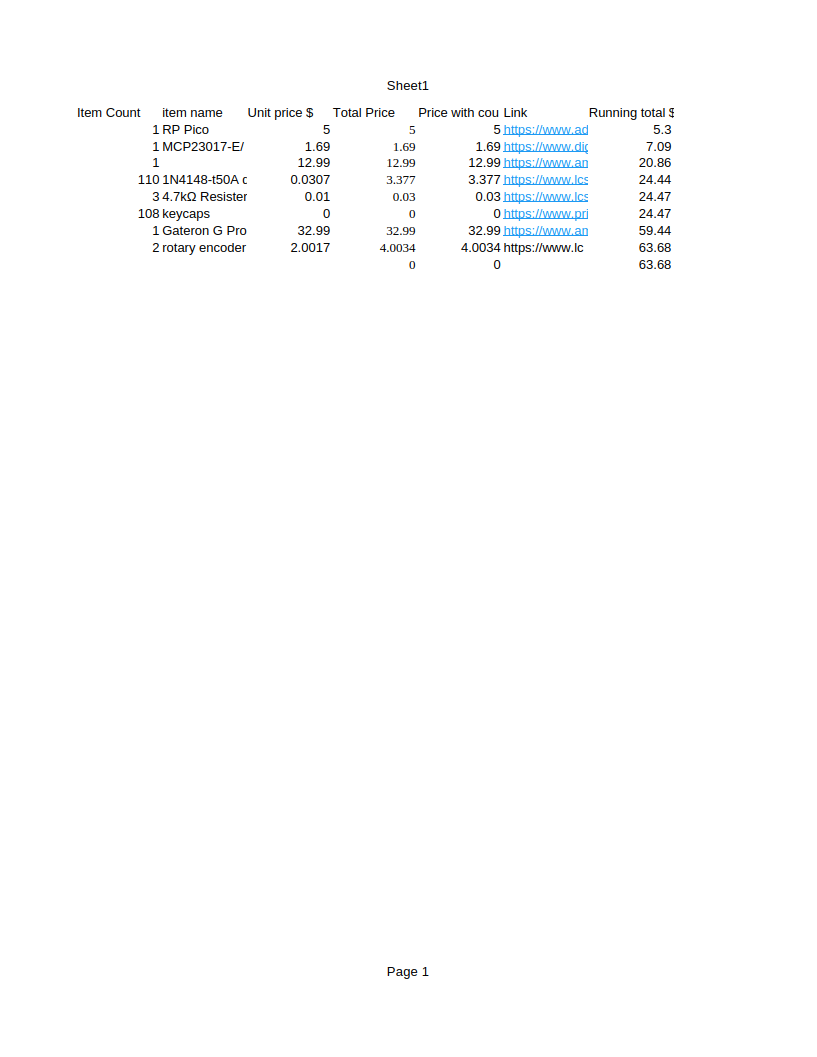
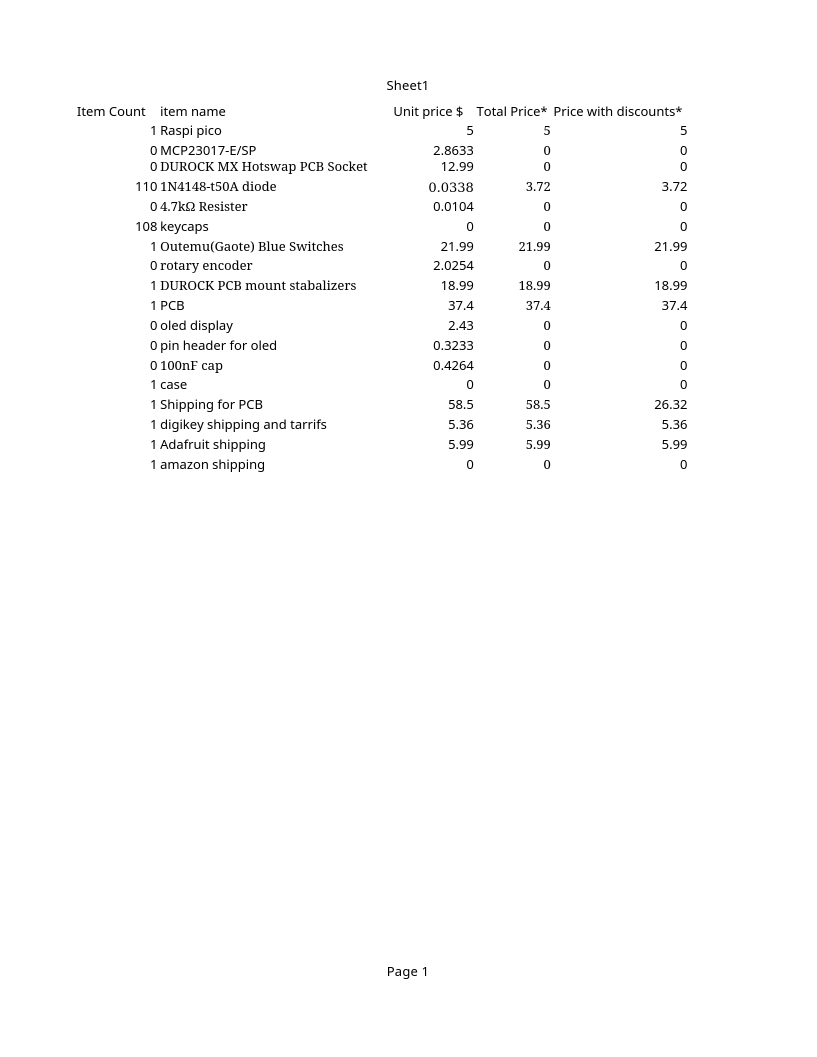
added correct JOURNAL

diff --git a/JOURNAL.md b/JOURNAL.md
@@ -2,278 +2,80 @@
   This journal is auto generated by Hack Club Blueprint.
 -->
 
-## 10/14/2025 10 AM - Set up the clock module  
-
-_Time spent: 1.0h_  
-
-Made the clock module schematic following the schematic that Ben Eater made. It took me a little bit for me to figure out what RV1 was turns out it was a Potentiometer. I have also stared work on the a-register. I still need to figure out how to make it different from the one Ben Eater made so I'm not just copying his schematic and calling it my own. ![Screenshot_20251014_104442.png](https://blueprint.hackclub.com/user-attachments/blobs/proxy/eyJfcmFpbHMiOnsiZGF0YSI6MjIwMywicHVyIjoiYmxvYl9pZCJ9fQ==--0414950fb8ee1dacb4ae17ba9ccf1d42f8d0abc1/Screenshot_20251014_104442.png)  
-
-## 10/14/2025 11 AM - layed out the schematic for the a-register and b-register  
-
-_Time spent: 0.5h_  
-
-I got the a-register schematic layed out and all the connections set up. sense i just needed to grab the components and nothing was really hard to find it didn't take to hard to make. sense the b register is basically the same (the only difference is the output names) I just copied the existing schematic file and hierarchical sheet and edited it to make it work.
-![Screenshot_20251014_111732.png](https://blueprint.hackclub.com/user-attachments/blobs/proxy/eyJfcmFpbHMiOnsiZGF0YSI6MjIxMywicHVyIjoiYmxvYl9pZCJ9fQ==--503a58eb351ad3e66d941f6c948d3f7b6ec3daad/Screenshot_20251014_111732.png)  
-
-## 10/19/2025 - Made the scematic for the ALU and flags register  
-
-_Time spent: 0.5h_  
-
-set up the flags register and the ALU schematic. it wasn't to hard to do but i did figure out how to make the schematic look better so it probably looks better then my previous schematics. I also figured out that there is a version control function built into KiCad though i may stick to the command line for the future.
-
-![image.png](https://blueprint.hackclub.com/user-attachments/blobs/proxy/eyJfcmFpbHMiOnsiZGF0YSI6MzU0MCwicHVyIjoiYmxvYl9pZCJ9fQ==--edb4d5dab8a4c14b641bf7c07b2b16b2de5177f0/image.png)
-  
-
-## 10/21/2025 - Made the MAR module  
-
-_Time spent: 0.5h_  
-
-I made the schematic for the MAR module witch was pretty easy as non of the parts needed swapped out. I didn't really learn any thing new in the process other then if you hold control you can move things off the grid.
-![image.png](https://blueprint.hackclub.com/user-attachments/blobs/proxy/eyJfcmFpbHMiOnsiZGF0YSI6NDI2MiwicHVyIjoiYmxvYl9pZCJ9fQ==--aeb01d592da6778ed581c8fa601a26a26e73ff8c/image.png)
-  
-
-## 10/22/2025 - Make a symbol for the 74189 ram chip  
-
-_Time spent: 1.0h_  
-
-Sense i couldn't find a symbol or a alternative that works with out extensive upgrades to the rest of the computer i decided to make a symbol biased on data sheet linked to by Ben Eater.
-I managed it by essentially copying the connection diagram from the data sheet and turning it into a symbol then using the block diagram to figure out the what pins where outputs.
-I figgured out how to use the symbol editor and how to tell what pins are inputs and what pins are outputs.
-![74F189SJ.png](https://blueprint.hackclub.com/user-attachments/blobs/proxy/eyJfcmFpbHMiOnsiZGF0YSI6NDUwNCwicHVyIjoiYmxvYl9pZCJ9fQ==--89dc7ce9dd2e05fb48278ff53f9645d6629169de/74F189SJ.png)
-  
-
-## 10/25/2025 6 PM - Made the RAM module  
-
-_Time spent: 0.7h_  
-
-I made the ram module for the PC. but sense i used a custom symbol for one of the chips i need it isn't as clean as i would have hoped but it works.
-It was a little harder then the other modules because the custom symbols didn't match the pin names of the symbols on the reference schematic so i needed to make sure that i was matching the pin names and not the pin numbers.
-![image](https://blueprint.hackclub.com/user-attachments/blobs/proxy/eyJfcmFpbHMiOnsiZGF0YSI6NTU3OCwicHVyIjoiYmxvYl9pZCJ9fQ==--4c8a7bb9ea4240db2bd383e1365923daa1d4a5b4/image.png)
-  
-
-## 10/25/2025 7 PM - Made the program counter  
-
-_Time spent: 0.3h_  
-
-I made the program counter witch is the easiest part of the entire project.
-For this one the hardest part was just making it look nice witch didn't take to long and wasn't to hard.
-![image](https://blueprint.hackclub.com/user-attachments/blobs/proxy/eyJfcmFpbHMiOnsiZGF0YSI6NTU5MCwicHVyIjoiYmxvYl9pZCJ9fQ==--e1c7f8e157e568a6c55bc22d35b344b7e8bc2961/image.png)
-  
-
-## 10/26/2025 9 AM - Set up the output module  
+## 11/9/2025 - Setup the basics for the keyboard schematic  
 
 _Time spent: 1.5h_  
 
-I got the sheet for the output module set up witch besides needing to find a replacement for the 28c16 EEPROM chip. that was its own adventure but digikey was helpful for finding one. i didn't find a full drop in replacement though i have now figured out the naming scheme for EEPROM families.
-Over all it was fun to set up. though i do hope that i am using the same symbols becasue the symbols i am using are diffrent pin names then the same pins that the guide i am using has.
-![Screenshot_20251026_094838](https://blueprint.hackclub.com/user-attachments/blobs/proxy/eyJfcmFpbHMiOnsiZGF0YSI6NTcyNiwicHVyIjoiYmxvYl9pZCJ9fQ==--ae14a156a6b09cfb8b7e9824d63d31abab7683c3/Screenshot_20251026_094838.png)
+I got the basics set up. so i have all 108 switches (subject to change) layed out and connected to the Pico. i have gotten most of the way on setting up the IO exstention board i just need to figure out where the ground pin on the symbol is and it is finished. i also have the models for all the symbols but the diodes assigned. i am going with a hybrid hot swap base so i can swap between MX Kalih and Choc switches with out much hassle.
+![image](https://blueprint.hackclub.com/user-attachments/blobs/proxy/eyJfcmFpbHMiOnsiZGF0YSI6OTk1NSwicHVyIjoiYmxvYl9pZCJ9fQ==--8022e7c090d435e025c0e26f2afd763a571b2a07/image.png)
   
 
-## 10/26/2025 2 PM - Set up the cpu control module  
-
-_Time spent: 1.0h_  
-
-I got the schematic for the control module set up. it wasn't very hard though i did need to wire one section of it twice because i did it wrong the first time. though i did take a little bit for me to get all of the sheet pins set up because there are 16 pins that are all different so i couldn't just copy and paste the parts that where the same.
-
-![Screenshot_20251026_141857](https://blueprint.hackclub.com/user-attachments/blobs/proxy/eyJfcmFpbHMiOnsiZGF0YSI6NTc3NCwicHVyIjoiYmxvYl9pZCJ9fQ==--2be6deb95108e0b35235c309998a77805527b797/Screenshot_20251026_141857.png)
-  
-
-## 10/26/2025 4 PM - finnised makeing the schematics  
-
-_Time spent: 2.0h_  
-
-I originally connected everything using busses and wires until i got to the end of my first wiring run at witch point i was using global labels to connect stuff. After i finished everything i realized that i may have messed stuff up because the way i set up the busses might not have worked at witch point i switched to using global labels for connecting over long distances.
-![Screenshot_20251026_165409](https://blueprint.hackclub.com/user-attachments/blobs/proxy/eyJfcmFpbHMiOnsiZGF0YSI6NTgyMCwicHVyIjoiYmxvYl9pZCJ9fQ==--4bd96d94e1b8c2c169f6b67b09845199ded7aaa9/Screenshot_20251026_165409.png)  
-
-## 10/27/2025 - Cleaned up schematic and added power input  
-
-_Time spent: 1.0h_  
-
-I did the (rough) calculations for power and figured out that a USB-C port with amperage set to 500 mA will be enough for the power. i also cleaned up the schematic and got the annotations and started getting footprints ready for the PCB design.![Screenshot_20251027_205614](https://blueprint.hackclub.com/user-attachments/blobs/proxy/eyJfcmFpbHMiOnsiZGF0YSI6NjEwMiwicHVyIjoiYmxvYl9pZCJ9fQ==--23b4cb1bba18f4c2535f5c72a6ab516c2e4cc7fd/Screenshot_20251027_205614.png)
-  
-
-## 10/29/2025 - Organised and routed the PCB  
-
-_Time spent: 1.5h_  
-
-I layed out the PCB and got freerouting started on routing the traces so i don't have to manually run nearly 1000 traces. though i have forgot to add the silkscreen to label what buttons and switches are for so i will need to run it again after i do that. though having the buttons and switch uses on a document that goes with the project could also work.
-![Screenshot_20251029_214637](https://blueprint.hackclub.com/user-attachments/blobs/proxy/eyJfcmFpbHMiOnsiZGF0YSI6NjU5NiwicHVyIjoiYmxvYl9pZCJ9fQ==--188d15f6137761201e3e793af510f96dc11136d8/Screenshot_20251029_214637.png)
-  
-
-## 10/30/2025 - remaking the pcb layout  
+## 12/4/2025 - Finnished the schematic.  
 
 _Time spent: 3.0h_  
 
-started reworking the pcb layout so i can run the traces manualy without spending a few weeks on it. still quite early but sense i have it set up in as modules it shoun't take me to long once i get each of the modules layed out so they connect together at least semi organised if not optimized.![Screenshot_20251030_215059](https://blueprint.hackclub.com/user-attachments/blobs/proxy/eyJfcmFpbHMiOnsiZGF0YSI6Njg5NSwicHVyIjoiYmxvYl9pZCJ9fQ==--ebf045ece5c1c88076987347b2fc98b2b53547eb/Screenshot_20251030_215059.png)
+finished making the schematic for the keyboard. the fun part was adding the 108 LEDs plus figuring out if i had the correct pins connected to the i2c exspander i was using.
+![image](https://blueprint.hackclub.com/user-attachments/blobs/proxy/eyJfcmFpbHMiOnsiZGF0YSI6MTg4MDEsInB1ciI6ImJsb2JfaWQifX0=--d7390d3cbf8565d03134bf075dd1e960afc44014/image.png)
   
 
-## 11/3/2025 - cleaned up to pcb and started fixing some of the ERC errors  
+## 12/5/2025 11 AM - Made the BOM  
 
-_Time spent: 4.0h_  
+_Time spent: 1.0h_  
 
-Didn't really get to much done but i now have the PCB mostly layed out and just need to get the traces routed after fixing the ERC errors i have. I have figured out how to get only certain nets to show at a time.
-![Screenshot_20251103_212619](https://blueprint.hackclub.com/user-attachments/blobs/proxy/eyJfcmFpbHMiOnsiZGF0YSI6ODI0NCwicHVyIjoiYmxvYl9pZCJ9fQ==--2887388454adc659ec7508ebe83aa6af96c272d1/Screenshot_20251103_212619.png)
+Finished finding all the parts i will need. turned out the the first hotswap sockets i found even though they where ~$3.40 a pack sense they came in packs of ten they would have been ~$50 of the total price after looking on amazon for some i found a pack of 110 for $12.99.![BOM](https://blueprint.hackclub.com/user-attachments/blobs/proxy/eyJfcmFpbHMiOnsiZGF0YSI6MTkxODEsInB1ciI6ImJsb2JfaWQifX0=--8da9b47049846bb398a1344156907ac78ef1e72f/BOM.png)
   
 
-## 11/4/2025 - Fixed all but one of the ERC errors.  
-
-_Time spent: 1.5h_  
-
-I fixed most of the ERC errors witch i probably should have done before i spent a while on the pcb layout but hindsight is 2020. Though it does seem that most of the errors i had where from unconnected pins so they weren't hard to fix.
-attached is a screen shot of the last ERC error i have remaining.![Screenshot_20251104_200049](https://blueprint.hackclub.com/user-attachments/blobs/proxy/eyJfcmFpbHMiOnsiZGF0YSI6ODQ3MSwicHVyIjoiYmxvYl9pZCJ9fQ==--7f557a745c9d07c693dc7781734143d2308d65d8/Screenshot_20251104_200049.png)
-  
-
-## 11/6/2025 11 AM - Routed the gnd plane  
+## 12/5/2025 10 PM - Laying out the PCB  
 
 _Time spent: 3.0h_  
 
-sense i did the cost/benefit analysis and found that a 6 layer PCB is worth the extra cost over a 2 layer PCB and sense with the $20 coupon it is actually cheaper then the 4 layer PCB ($3 less but still) i chose to go with a 6 layer pcb to make routing easier. Now i have all of the ground pins routed with only 7 traces that needed to change to the top layer for the 555 timers and 2 other of the same ICs and the USB-C port because they are SMD (i couldn't find any THT footprints for them). next i am going to do the power plane.![Screenshot_20251106_105905](https://blueprint.hackclub.com/user-attachments/blobs/proxy/eyJfcmFpbHMiOnsiZGF0YSI6ODkxOSwicHVyIjoiYmxvYl9pZCJ9fQ==--4fb9a827adad0aa0231277a64f1824bf8fa5b2b3/Screenshot_20251106_105905.png)
+I started working on laying out the PCB. i made a layout using keyboard layout editor witch i am using to position my keys. I am also wanting each row and colom on the keyboard to match the place in the keyboard (so the function keys are row one and so forth) so i needed to redo my grid on the schematic side witch i am still working on. I also found stablizers that i might end up using that will depend if i can find a kit that will work for cheaper.![Screenshot_20251205_215956](https://blueprint.hackclub.com/user-attachments/blobs/proxy/eyJfcmFpbHMiOnsiZGF0YSI6MTk3NDEsInB1ciI6ImJsb2JfaWQifX0=--17f4dc78c32ba03a376967d288d6076e5bcd24e2/Screenshot_20251205_215956.png)
+![Screenshot_20251205_220120](https://blueprint.hackclub.com/user-attachments/blobs/proxy/eyJfcmFpbHMiOnsiZGF0YSI6MTk3NDIsInB1ciI6ImJsb2JfaWQifX0=--e3ac36054db2423b1ef7565aa4029952a447b210/Screenshot_20251205_220120.png)
   
 
-## 11/6/2025 7 PM - Routed the power plane  
-
-_Time spent: 0.5h_  
-
-Routed the power plane of the PCB and like the ground plane it just had a few SMD pins to route.
-this was pretty simple because i had figured out how to do it properly already.![Screenshot_20251106_193525](https://blueprint.hackclub.com/user-attachments/blobs/proxy/eyJfcmFpbHMiOnsiZGF0YSI6OTA0MywicHVyIjoiYmxvYl9pZCJ9fQ==--dad986a8453e4f22dbae03b727cd1d89e254cf7d/Screenshot_20251106_193525.png)
-  
-
-## 11/6/2025 9 PM - finished routing the PCB  
+## 12/7/2025 11 AM - layed out the key switches  
 
 _Time spent: 2.0h_  
 
-Sense i chose to go with the 6 layer PCB the routing of the signals was easy. the hardest part was trying to find the nets that still needed connected near the end and figuring out the via setup for the areas that need a high amount of level changes in a concentrated areas though i did try to avoid that completely.
-now the question is what silkscreen art to add to the blank spaces.
-![Screenshot_20251106_212630](https://blueprint.hackclub.com/user-attachments/blobs/proxy/eyJfcmFpbHMiOnsiZGF0YSI6OTA2NiwicHVyIjoiYmxvYl9pZCJ9fQ==--6028450f60c72b311cb83152893c8ca4ebd27323/Screenshot_20251106_212630.png)  
-
-## 11/7/2025 2 PM - made the case and added the silkscreen art  
-
-_Time spent: 1.0h_  
-
-made a simple case for my project witch is more for keeping the solder joints and the parts on the back off the ground so it is only a base with standoffs and doesn't include a top case. the silk screen art is just QR codes linking to the blueprint page and the github repo.![Screenshot_20251107_135502](https://blueprint.hackclub.com/user-attachments/blobs/proxy/eyJfcmFpbHMiOnsiZGF0YSI6OTIyMCwicHVyIjoiYmxvYl9pZCJ9fQ==--8f1208b1b9d7af18dfe3293b1833219e25e6e639/Screenshot_20251107_135502.png)
-![Screenshot_20251107_142128](https://blueprint.hackclub.com/user-attachments/blobs/proxy/eyJfcmFpbHMiOnsiZGF0YSI6OTIyMSwicHVyIjoiYmxvYl9pZCJ9fQ==--1834c6fca22cb7a219ee7160140aa1ea16fd3222/Screenshot_20251107_142128.png)
+i got the switches layout out on both the PCB and the schematic. i was having the schematic side layout out the same to make the traces look better. still looking for a footprint for the stabilizers.![Screenshot_20251207_105912](https://blueprint.hackclub.com/user-attachments/blobs/proxy/eyJfcmFpbHMiOnsiZGF0YSI6MjA2OTcsInB1ciI6ImJsb2JfaWQifX0=--985d0e785c7dd8037f3590ba717c18bf932fed4f/Screenshot_20251207_105912.png)
+![Screenshot_20251207_105948](https://blueprint.hackclub.com/user-attachments/blobs/proxy/eyJfcmFpbHMiOnsiZGF0YSI6MjA2OTgsInB1ciI6ImJsb2JfaWQifX0=--5bd114c76e36a3f628b7521aae304df12306c61e/Screenshot_20251207_105948.png)
   
 
-## 11/7/2025 8 PM - Rerouted the pcb  
-
-_Time spent: 1.0h_  
-
-While i was working on the BOM for my project i realized that one of the parts i had on my PCB wasn't going to work so i needed to switch to a different chip that is a THT instead witch was also bigger. though sense i didn't really make to many changes to the layout re routing the PCB didn't take to long because i already know how it would work mostly. as long with using a ground and power plane instead of needing to connect via traces witch probably where to small to contain the power and heat anyways.![Screenshot_20251107_200941](https://blueprint.hackclub.com/user-attachments/blobs/proxy/eyJfcmFpbHMiOnsiZGF0YSI6OTI4MiwicHVyIjoiYmxvYl9pZCJ9fQ==--59641ff504840167d7b455b1fa445cc6c9f0cdad/Screenshot_20251107_200941.png)
-  
-
-## 11/9/2025 - Update BOM  
-
-_Time spent: 0.5h_  
-
-Updated BOM to use parts sourced from LCSC. if a part was cheaper on Digikey or Jameco i left it to be ordered from there. I also removed the stencil from my order. i would switch to lead free HASL but JLCPCB doesn't let me choose anything but ENIG for a 6 layer PCB witch with the $20 coupon i am going to use (exspires 04/01/2026) it is $3 cheaper then a 4 layer PCB.
-![Screenshot_20251109_105040](https://blueprint.hackclub.com/user-attachments/blobs/proxy/eyJfcmFpbHMiOnsiZGF0YSI6OTc5MCwicHVyIjoiYmxvYl9pZCJ9fQ==--b881ec0331e624a800d8accf646ab42998505223/Screenshot_20251109_105040.png)
-
-  
-
-## 11/10/2025 - Fix some issues  
-
-_Time spent: 0.5h_  
-
-Updated the readme to have a Screen shot of the PCB in the case (CAD models). Also i updated the BOM to included estimated shipping cost and Tariffs as well as other fees.
-![Screenshot_20251110_180928](https://blueprint.hackclub.com/user-attachments/blobs/proxy/eyJfcmFpbHMiOnsiZGF0YSI6MTAyNDQsInB1ciI6ImJsb2JfaWQifX0=--faed8362a0d5aecec2a035b5dad741282cefe2da/Screenshot_20251110_180928.png)  
-
-## 11/12/2025 - fixed the BOM and did a sanity check on the schematic  
-
-_Time spent: 1.0h_  
-
-I went through my BOM again to make sure it was optimized. switched over a few items to LCSC so they where cheaper. also did a sanity check on the schematic to make sure that i didn't make any mistakes on it. asked for another set of eyes to check it over to make sure i didn't miss anything before i route the PCB again.
-![Screenshot_20251112_120238](https://blueprint.hackclub.com/user-attachments/blobs/proxy/eyJfcmFpbHMiOnsiZGF0YSI6MTA2NDQsInB1ciI6ImJsb2JfaWQifX0=--f6cf337264ec8a610aeccbbb143d102eb7ebfdc8/Screenshot_20251112_120238.png)
-  
-
-## 11/18/2025 12 PM - Added decupling capaciters  
-
-_Time spent: 4.0h_  
-
-i added decoupling capacitors at 0.1µF to each IC. the longest part was figuring out how to place the caps to get them to function properly. After placing them on the PCB i rerouted it to make sure that it didn't cause any overlaps with existing traces and because i needed to move some of the ICs to make it work. Updated BOM to include number of new caps. BOM allready takes into account the $20 coupon for the 6 layer PCB.
-![Screenshot_20251118_120720](https://blueprint.hackclub.com/user-attachments/blobs/proxy/eyJfcmFpbHMiOnsiZGF0YSI6MTIyMTQsInB1ciI6ImJsb2JfaWQifX0=--18799eafb359d0e6dfcbad325f5246ddd2417ef6/Screenshot_20251118_120720.png)
-  
-
-## 11/18/2025 5 PM - Finished updating BOM  
-
-_Time spent: 0.5h_  
-
-I had started updating the BOM 5 hours ago but didn't update all of the amounts to match the order amount needed for my project because not all of the parts i could find at the cheapest allowed me to order the exact amount that i need for my project.![Screenshot_20251118_172353](https://blueprint.hackclub.com/user-attachments/blobs/proxy/eyJfcmFpbHMiOnsiZGF0YSI6MTIzMTQsInB1ciI6ImJsb2JfaWQifX0=--c1f5edc5d05398aa2cf23188947ff0a52aec8fd3/Screenshot_20251118_172353.png)
-  
-
-## 11/20/2025 - Laying out the PCB again  
-
-_Time spent: 1.2h_  
-
-biased of off some responses to a Red
-dit thread asking for a review of my PCB. i decided that after i did some edits to my schematic witch was mostly just making the signals all flow left to right and having all the VCC labels point up and GND labels point down. I decided that completely redoing the PCB layout would be easiest to fix some of the issues/taking some of the advice for the layout. for anyone wondering here is the Reddit thread: https://www.reddit.com/r/PrintedCircuitBoard/comments/1p0x2xf/review_request_8bit_pc/
-![Screenshot_20251120_215217](https://blueprint.hackclub.com/user-attachments/blobs/proxy/eyJfcmFpbHMiOnsiZGF0YSI6MTI4MjIsInB1ciI6ImJsb2JfaWQifX0=--753a5cbcb0384dddd67cd3739bf7a1f1551a8a8d/Screenshot_20251120_215217.png)  
-
-## 11/30/2025 - Continued laying out the PCB  
-
-_Time spent: 6.0h_  
-
-Continued laying out the PCB. Currently just have the LEDs connected to the resisters and a couple of the busses connected to all of the pins they connect to.![Screenshot_20251130_184436](https://blueprint.hackclub.com/user-attachments/blobs/proxy/eyJfcmFpbHMiOnsiZGF0YSI6MTY2MDIsInB1ciI6ImJsb2JfaWQifX0=--5482966242a7385b54bd78eb3f0720ebfcc82509/Screenshot_20251130_184436.png)
-  
-
-## 12/1/2025 - Contine routing the PCB  
-
-_Time spent: 2.0h_  
-
-Continued routing the PCB. I think this is going to take at least on or two more journals to finish. I have managed to get down to two areas left to route though so probably just one more journal.
-![Screenshot_20251201_211644](https://blueprint.hackclub.com/user-attachments/blobs/proxy/eyJfcmFpbHMiOnsiZGF0YSI6MTcwNzIsInB1ciI6ImJsb2JfaWQifX0=--964671f4744598bcdea8f246561a9d82815eabcc/Screenshot_20251201_211644.png)
-  
-
-## 12/3/2025 - Finnished routing the PCB  
-
-_Time spent: 4.0h_  
-
-I finally finished routing the PCB again after redoing the layout to make more sense for the user. i know its a mess but as long as it works I'm fine with it.
-![Screenshot_20251203_211918](https://blueprint.hackclub.com/user-attachments/blobs/proxy/eyJfcmFpbHMiOnsiZGF0YSI6MTgxNjAsInB1ciI6ImJsb2JfaWQifX0=--c8072eb6e78489ac939cb3365b186ea244065500/Screenshot_20251203_211918.png)
-  
-
-## 12/8/2025 - tried to get reviews   
-
-_Time spent: 4.0h_  
-
-I spent a while (most of it was just waiting for any response so i didn't count it) trying to get any reviews for the pcb and schematic but could only get a total of one high quality review plus a few others that might not be as high quality. but all of that was from here https://www.reddit.com/r/PrintedCircuitBoard/comments/1p0x2xf/review_request_8bit_pc/
-. i also tried asking in the KiCad discord server and in the voidstar lab discord server. i will link the thread for both so they are here in case i forget to add an update here. voidstar lab: https://discord.com/channels/771523295387582514/789303214016561173/1446703681511620780
-KiCad server: https://discord.com/channels/502708194179809281/1445989754041794621
-![Screenshot_20251208_215333](https://blueprint.hackclub.com/user-attachments/blobs/proxy/eyJfcmFpbHMiOnsiZGF0YSI6MjE1MTcsInB1ciI6ImJsb2JfaWQifX0=--b1e276b35ed7e40be944696b4e4f4fb3167b4b26/Screenshot_20251208_215333.png)  
-
-## 12/10/2025 - Did a few things  
-
-_Time spent: 4.0h_  
-
-i updated the BOM to match current prices for all the parts and looked for cheaper parts. i also redesigned the case because i forgot to do that earlier. sense i haven't wanted to take the time to learn how to use onshape or FreeCAD i just made the case in tinkerCAD using basic shapes. I had to split the case in two with each half being the same part just rotated 180 degrees.![Screenshot_20251210_205432](https://blueprint.hackclub.com/user-attachments/blobs/proxy/eyJfcmFpbHMiOnsiZGF0YSI6MjIzMzcsInB1ciI6ImJsb2JfaWQifX0=--bee6be57d2e7d7c7341c5e9f865efe1d8e9b74b1/Screenshot_20251210_205432.png)
-  
-
-## 12/12/2025 8 AM - added schematic images to readme  
-
-_Time spent: 0.1h_  
-
-Added images of the schematic to my readme. i didn't add them earlier because it wasn't required in the docs for a custom project and so i wouldn't have to add 11 more images to the readme.![Screenshot_20251212_082256](https://blueprint.hackclub.com/user-attachments/blobs/proxy/eyJfcmFpbHMiOnsiZGF0YSI6MjI5NjEsInB1ciI6ImJsb2JfaWQifX0=--0e3566271fb30304cf200f5d09fb274ddbfe4e33/Screenshot_20251212_082256.png)
-  
-
-## 12/12/2025 3 PM - not sure what to put here  
-
-_Time spent: 0.1h_  
-
-This is just so i can add some clarification that i didn't think was necessary. I can't not use ENIG for my PCB because JLCPCB requires it on 6+ layer boards so the inside layers can get adequately cooled. I am only willing to switch to a 4 layer board if i can use an auto router and if it is the only reason i cant get the grant.
-![Screenshot_20251212_154720](https://blueprint.hackclub.com/user-attachments/blobs/proxy/eyJfcmFpbHMiOnsiZGF0YSI6MjMxOTQsInB1ciI6ImJsb2JfaWQifX0=--e9e1ddce6eb14411ed6be896e9534b158eca91e0/Screenshot_20251212_154720.png)  
-
-## 12/30/2025 - started soldering  
-
-_Time spent: 1.5h_  
-
-I soldered the first 6 ics it took a while because at first i couldn't find my soldering kit and my dad's iron didnt want to work properly. Then when i found my kit (exactly where i put it) it took me a bit to remember how to solder properly which my dad helped me with.
-![20251230_154732](https://blueprint.hackclub.com/user-attachments/blobs/proxy/eyJfcmFpbHMiOnsiZGF0YSI6MzI2ODMsInB1ciI6ImJsb2JfaWQifX0=--8ae7ff044d41a664b98f3796bee406e7d65af18e/20251230_154732.jpg)
-  
-
-## 1/4/2026 - soulderd all the parts that i can.  
+## 12/7/2025 9 PM - changed matrix layout  
 
 _Time spent: 3.0h_  
 
-Just finnished soldering all of the parts i have except for the eeprom chips because i want to get them programmed first. Sense i forgot to do it last time i put it away needed to clean and tin the soldering head i am using which i figured out how to do today. this was delayed 3 days becasue i couldn't upload the picture to the journal entry via my phone and i didn't get arounf to doing it on my laptop until now.
-![image](https://blueprint.hackclub.com/user-attachments/blobs/proxy/eyJfcmFpbHMiOnsiZGF0YSI6NzMyMzgsInB1ciI6ImJsb2JfaWQifX0=--0ab63d7dffd5abf58f1ce717b826f6ff18fb4130/image.png)
+After i finished doing the 21x6 matrix i realized that i don't have enough GPIO pins to do that so i had to go down to a 19x6 matrix. then i was making sure that i had the correct footpints for the key switches to make sure the spaceing was correct. i looked through like 6 libraries before i realised i had grabed the keyswitch footprint library from the plugin and content manager witch works but it it doesnt have the stablizers mounting holes i need to use a pcb mount screwd in stablizer so that is what i am going to work on tomorrow is the tablizer mounting holes.![Screenshot_20251207_212310](https://blueprint.hackclub.com/user-attachments/blobs/proxy/eyJfcmFpbHMiOnsiZGF0YSI6MjEwMTMsInB1ciI6ImJsb2JfaWQifX0=--3e891a6d46f86675522a66f8f6cbe79f507660a7/Screenshot_20251207_212310.png)![Screenshot_20251207_212333](/user-attachments/blobs/proxy/eyJfcmFpbHMiOnsiZGF0YSI6MjEwMTQsInB1ciI6ImJsb2JfaWQifX0=--98e0618a8aee763bd6c7e3dccaa2e7f3ebea4943/Screenshot_20251207_212333.png)
+
+  
+
+## 12/23/2025 - mostly routed the pcb  
+
+_Time spent: 5.0h_  
+
+spent a little while figuring out the best way to make my matrix fit on the pi or split it so the colums are on the pico and the rows are on the i2c expander. i ended up switching to a 10x11 matrix (10 col x 11 row) witch fit on the pico with out any issues. i have also dropped the rgb because i am planning on using a 2x4x8 and osb to make the case so the rgb probably wouldn't be viable any ways and it makes routing easier because i dont have to worry about routing the power and data for the leds around the traces for the rows and columns.![Screenshot_20251223_122109](https://blueprint.hackclub.com/user-attachments/blobs/proxy/eyJfcmFpbHMiOnsiZGF0YSI6MjgwOTksInB1ciI6ImJsb2JfaWQifX0=--08f51fae0a0fe0cb0dfeace186ddceaca330555c/Screenshot_20251223_122109.png)
+  
+
+## 12/24/2025 - did some BOM optimiting  
+
+_Time spent: 0.5h_  
+
+i did some BOM optimizing with help from ChatGPT (which wasn't much help) so i think now my bom is as optimized as i can make it unless i want to switch to a 3d printed case. it turns out that i only need one pull up resister because the internal pullups in the MCP23017 work according to the i2c standard.![Screenshot_20251224_153739](https://blueprint.hackclub.com/user-attachments/blobs/proxy/eyJfcmFpbHMiOnsiZGF0YSI6MjkwMzIsInB1ciI6ImJsb2JfaWQifX0=--b5fd6fc7ac9733d3535775f1d223cc2cbce45a0c/Screenshot_20251224_153739.png)
+  
+
+## 12/29/2025 - Made the case  
+
+_Time spent: 1.0h_  
+
+i made the case for the keyboard i am planning on doing a Plateless Mount style keyboard that uses the foam sandwich method to keep the keyboard from moving around. doing a plateless mount wasn't originally my plan, hence the pins to hold the top plate in place on the case design, but i didn't want to deal with editing the plate dxf from ai03 plate generator to make it work with my design. like the case for my 8-bit pc it was split in half and each half is the same just needing to be printed twice and rotated 180 degrees.
+![2025-12-29-231431_hyprshot](https://blueprint.hackclub.com/user-attachments/blobs/proxy/eyJfcmFpbHMiOnsiZGF0YSI6MzIzODMsInB1ciI6ImJsb2JfaWQifX0=--9d09a1a19077076b156fbbc062e81ed73aa14cb9/2025-12-29-231431_hyprshot.png)
+Now i just need to fit my git repo currently most of the stuff is under git-lfs and try to cut down on costs on my BOM.  
+
+## 1/4/2026 - started reroutingthe pcb and BOM optimazation  
+
+_Time spent: 2.0h_  
+
+rerouting the pcb to not use hotswap sockets to save on cost. I also dropped purchasing the rotary encoders, oled, and i2c expanders for the time being for the same reasion so for the time being i am only going to get the keyswitches and stabs. i am still over budget but not as much as it was before.
+![BOM](https://blueprint.hackclub.com/user-attachments/blobs/proxy/eyJfcmFpbHMiOnsiZGF0YSI6NzMyNDQsInB1ciI6ImJsb2JfaWQifX0=--f746bcb4b3957fe3cd64d942519a72e2262629e1/BOM.png)
   
 
